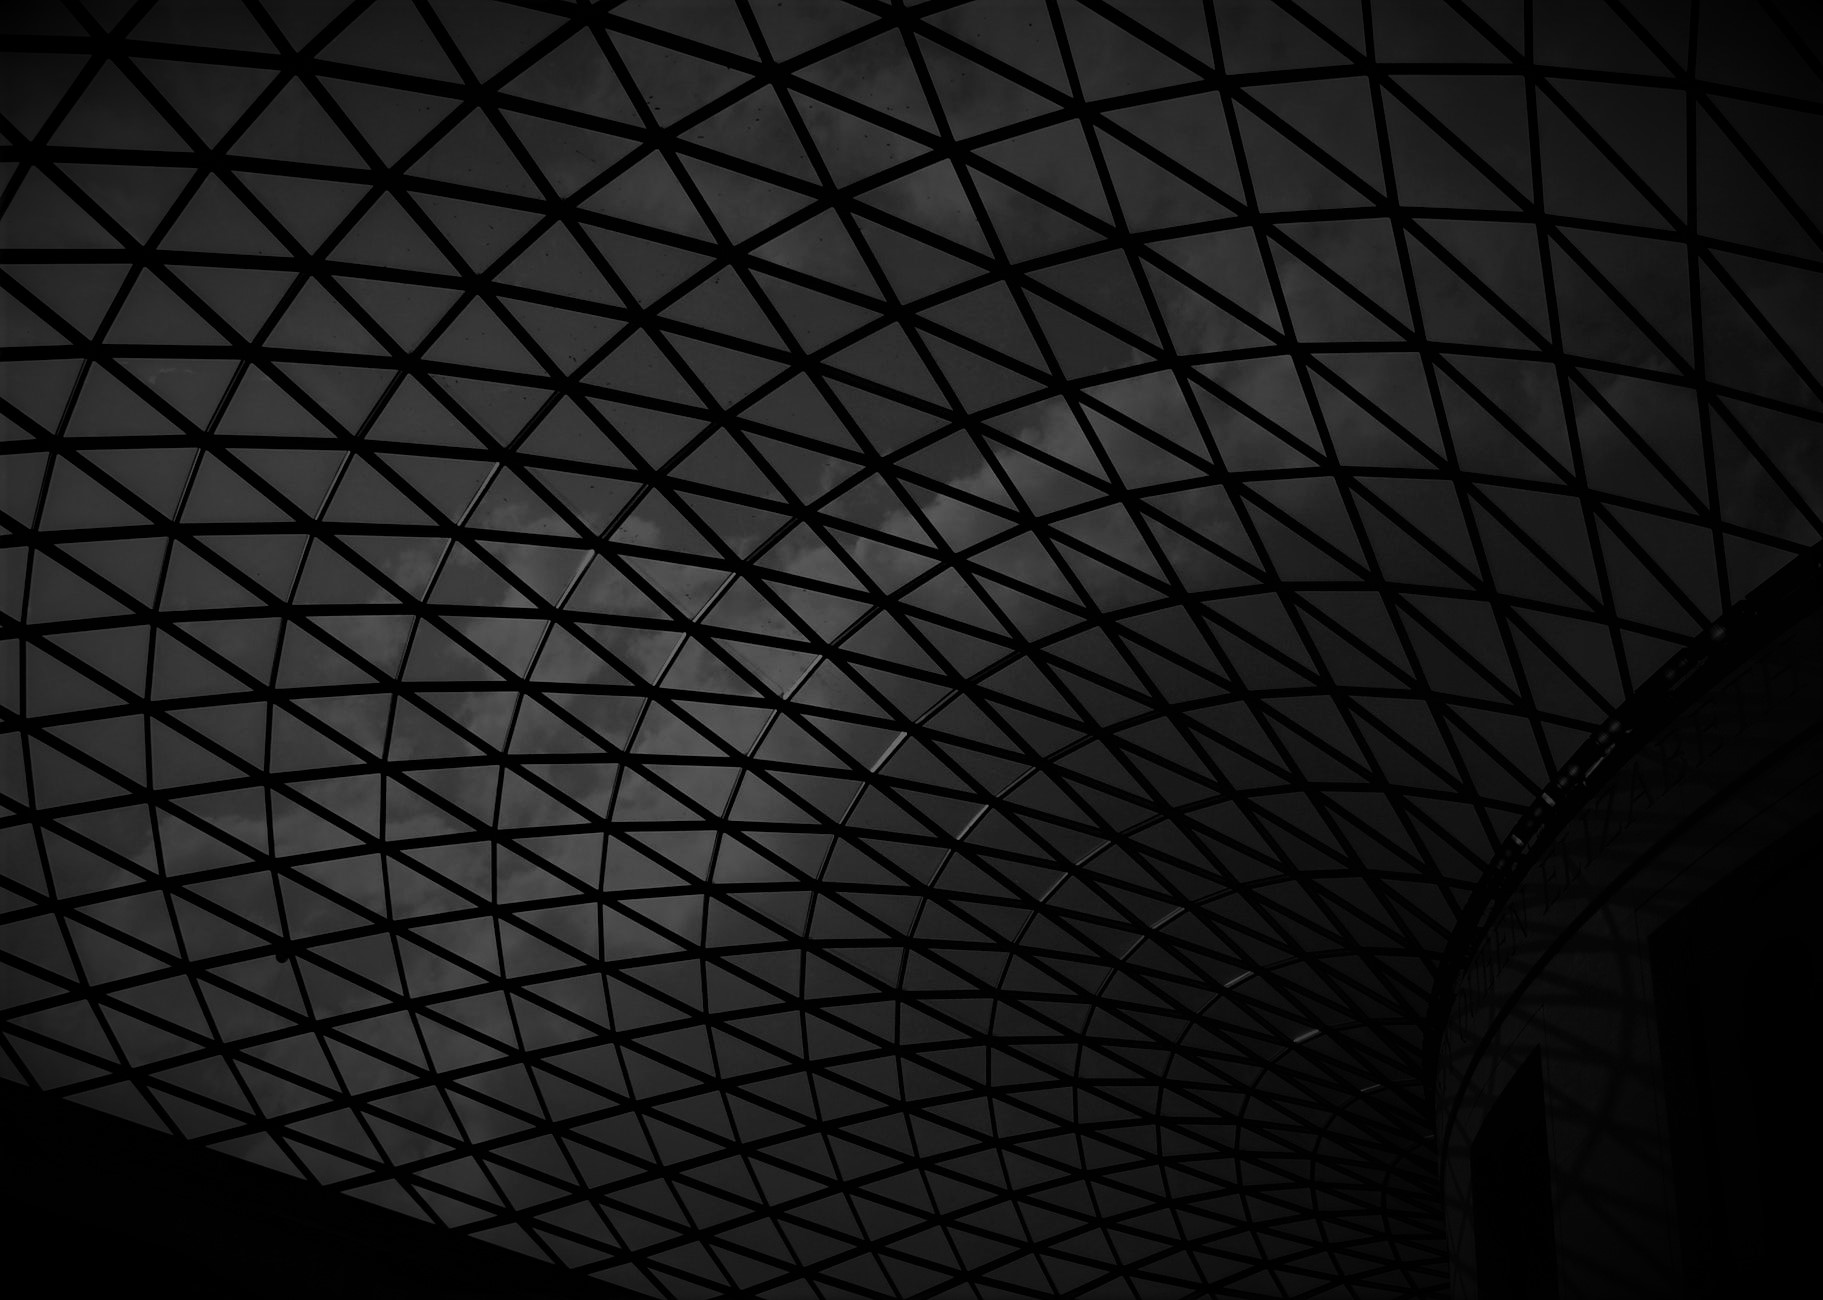
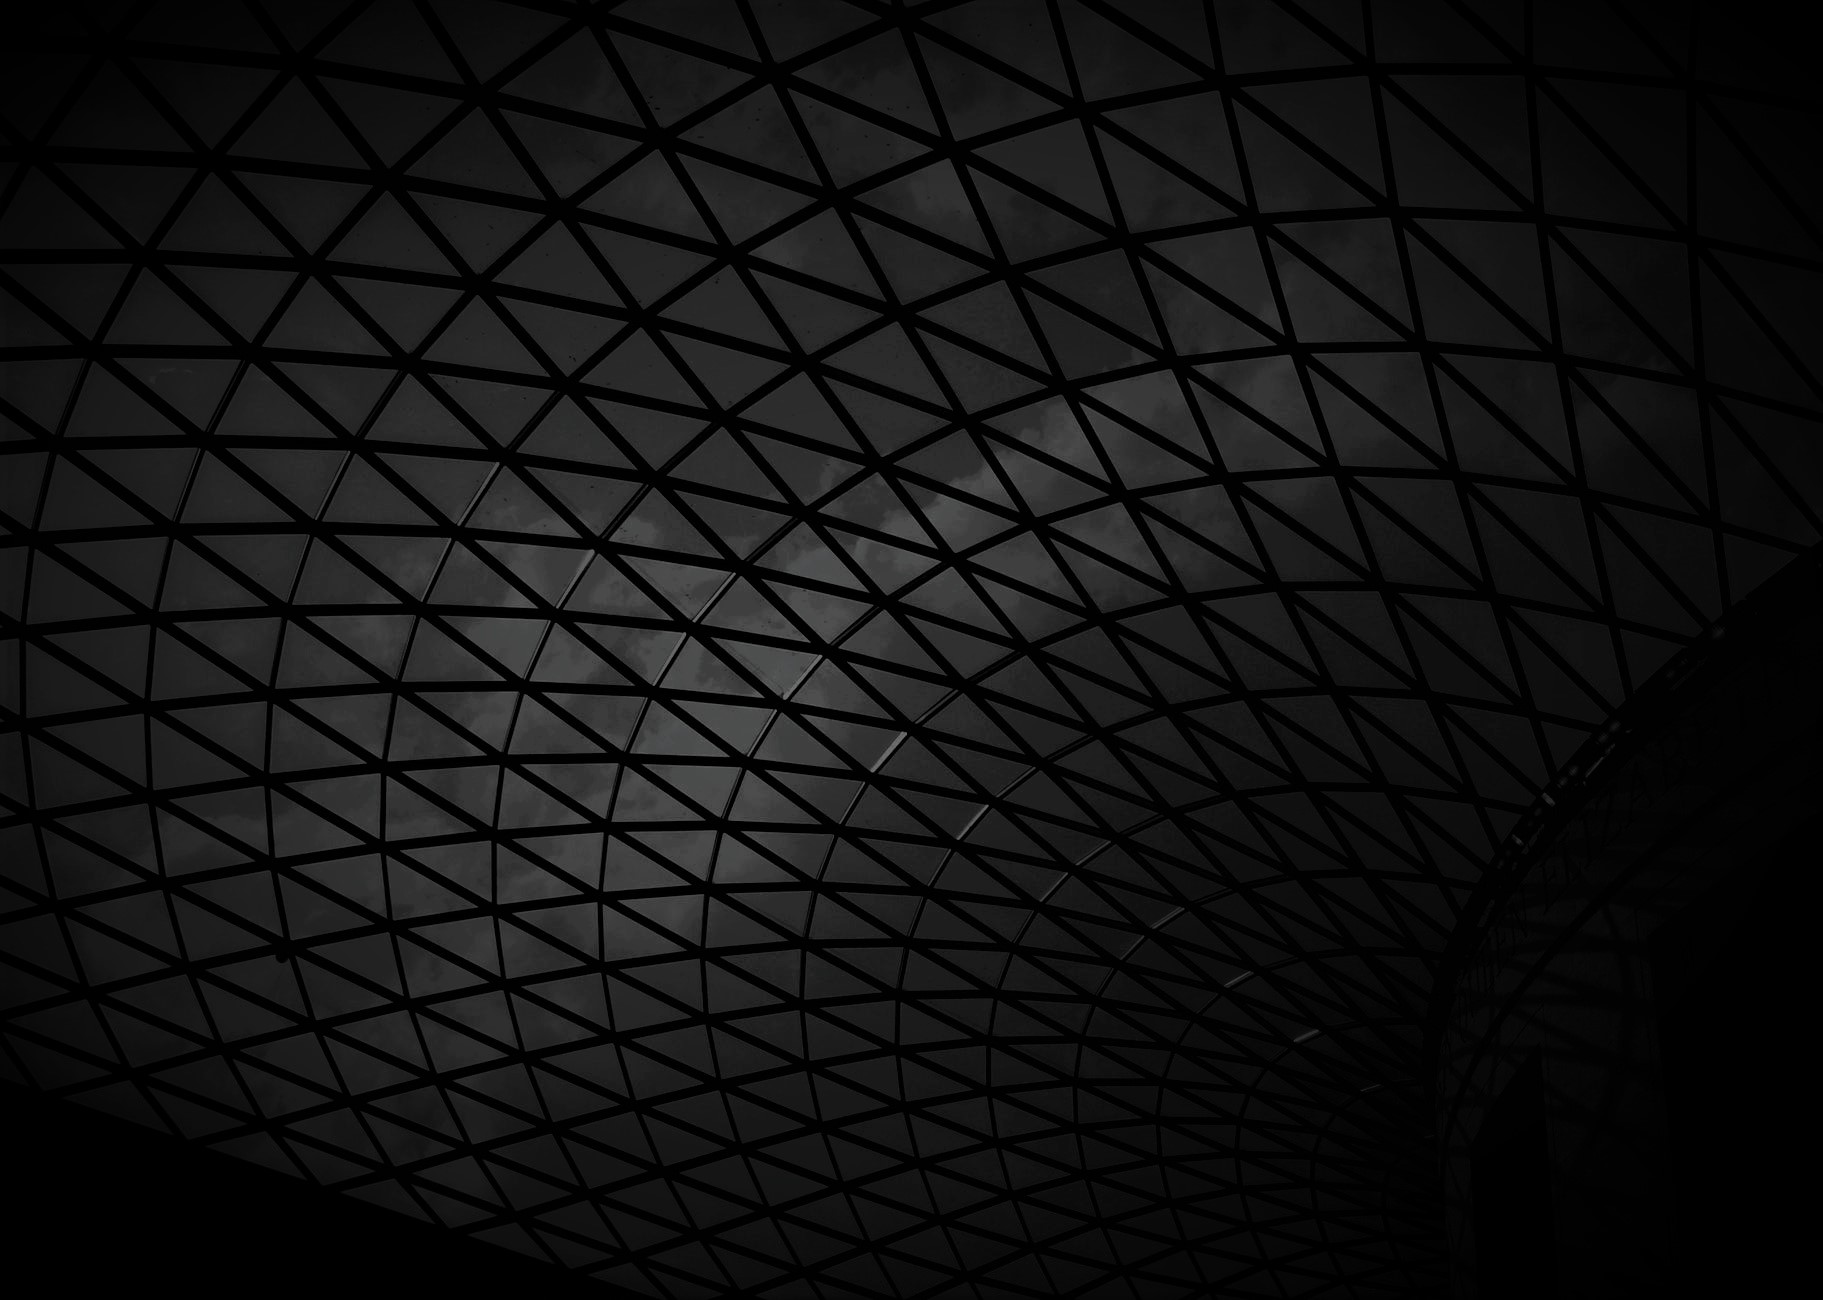
coso

diff --git a/index.html b/index.html
@@ -145,7 +145,7 @@
         
   <!---------------------------Section Empresa--------------------------->
 </div>
-  <section class="nigga">
+  <section class="nigga section__light ">
 
     <article>
 
@@ -155,7 +155,7 @@
 
         <!-- descripcion de la empresa -->
 
-        <div class="contenedor-m negro contenedor__light animate__animated animate__fadeIn " id="not-color">
+        <div class="contenedor-m nigga contenedor__light animate__animated animate__fadeIn " id="not-color">
             <h1 class="pb-4">Empresa</h1>
             <h2 class="mb-5">Amplia variedad en Aberturas de PVC, Aluminio, madera, chapa, portones, persianas y cortinas.</h2>
             <div class="col row  align-items-center">
@@ -170,6 +170,8 @@
                     <p>Además, nuestro personal capacitado garantiza una rápida respuesta, comprometiéndonos no solo en buscar la excelencia en el producto terminado sino también en las relaciones interempresariales.
                     </p>
                     <p>Nuestro medición en obra, montaje y colocación, servicio post-venta y atención personalizada con el fin de dar respuesta a todas las necesidades estéticas y/o prácticas que se presenten.</p>
+                    <p>Deseando poder incorporarlo a nuestra cartera de</p>
+                    <p>clientes, lo invitamos a sumarse a quienes ya han depositado su confianza en nosotros y nos han permitido ser parte de sus proyectos.</p>
                 </div>
                 <div class="col-md ">
                     <div id="carouselExampleSlidesOnly" class="carousel slide" data-bs-ride="carousel">
@@ -185,8 +187,7 @@
                             </div>
 
                         </div>
-                        <p>Deseando poder incorporarlo a nuestra cartera de</p>
-                        <p>clientes, lo invitamos a sumarse a quienes ya han depositado su confianza en nosotros y nos han permitido ser parte de sus proyectos.</p>
+                        
                     </div>
 
                 </div>
@@ -244,7 +245,8 @@
                         </div>
                     </div>
             </article>
-        </div>
+        </section>
+        
 
 
         
@@ -255,7 +257,7 @@
             <!--contendedor contacto-->
 
             <section>
-            <article>
+             <article>
                 <div class="   animate__animated animate__fadeIn">
                     <div class=" ccl   align-items-center">
                         <h1 class="pb-4"> Contacto </h1>

diff --git a/CSS/diseño.css b/CSS/diseño.css
@@ -370,7 +370,9 @@ h1 {
   border-radius: 0.2rem; }
 
 .nigga {
-  background-color: #141414; }
+  background-image: url(../Imagenes/dark2.jpg);
+  background-repeat: no-repeat;
+  background-size: cover; }
 
 .section__dark {
   background-image: linear-gradient(to top, #141414, rgba(20, 20, 20, 0.18)); }

diff --git a/scss/Parciales/sections-b-n.scss b/scss/Parciales/sections-b-n.scss
@@ -26,7 +26,9 @@
 
 
 .nigga {
-    background-color: rgb(20, 20, 20);
+    background-image: url(../Imagenes/dark2.jpg);
+    background-repeat: no-repeat;
+    background-size: cover;
 }
 
    
